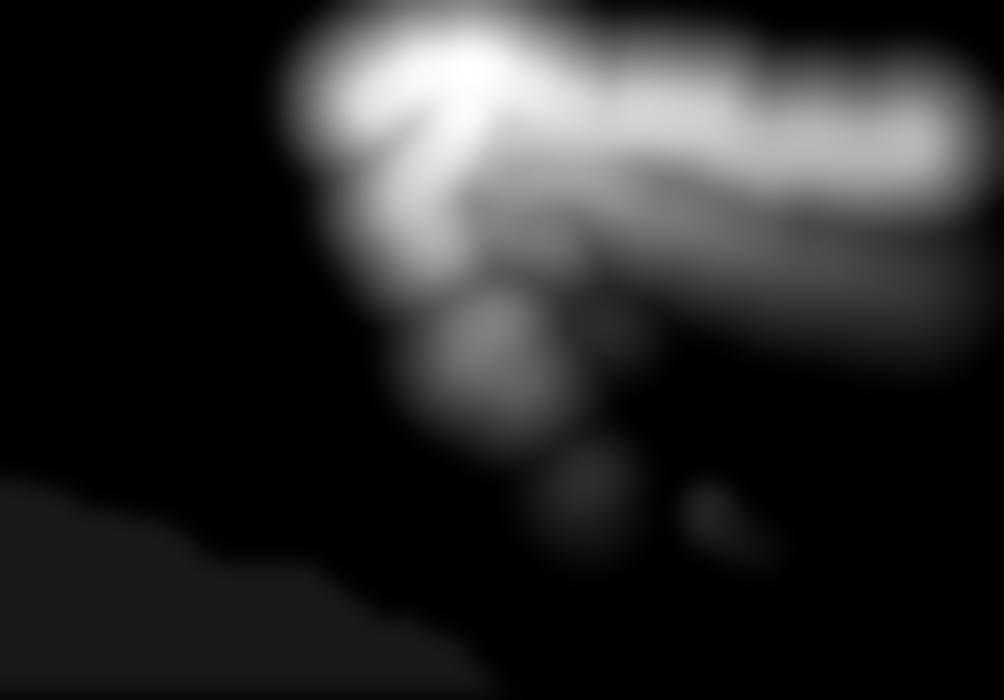
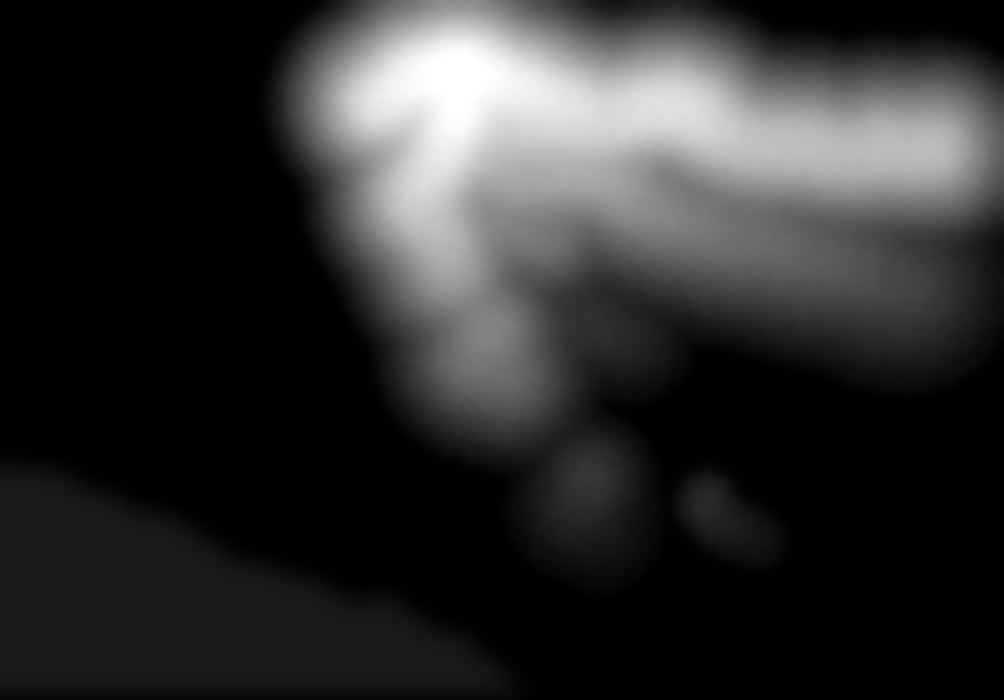
texture

Changed region(s): [[0.9263, 0.09, 1.0, 0.33], [0.6484, 0.0, 0.7102, 0.15], [0.4014, 0.36, 0.494, 0.48]]

diff --git a/sceneWebRender/terrain/texture.py b/sceneWebRender/terrain/texture.py
@@ -1,0 +1,53 @@
+from PIL import Image, ImageEnhance, ImageFilter, ImageOps
+
+def generateTextureForTerrain(terrainHeightMapPath, terrainTypePath, outputTexturePath):
+	hm = Image.open(terrainHeightMapPath)
+	tim = Image.open(terrainTypePath)
+	size = hm.size
+
+	hmContour = hm.filter(ImageFilter.CONTOUR)
+	hmContourData = hmContour.load()
+	timData = tim.load()
+	for x in range(0, size[0]):
+		for y in range(0, size[1]):
+			if hmContourData[x, y]<255:
+				hmContourData[x, y] = 0
+			if timData[x, y]!=200:
+				hmContourData[x, y] = 0
+
+	colorT = tim.convert("RGB")
+	colorTData = colorT.load()
+	for x in range(0, size[0]):
+		for y in range(0, size[1]):
+			if colorTData[x, y][0]==200:
+				colorTData[x, y] = (194,216,213)
+			if colorTData[x, y][0]==100:
+				colorTData[x, y] = (194,216,213)
+
+	colorT.save("/home/kakaiu/ThreeChinesePainting/sceneWebRender/static/terrain/tmp_color.png")
+
+	hmContour.save("/home/kakaiu/ThreeChinesePainting/sceneWebRender/static/terrain/tmp_contour.png")
+	hm = hmContour.filter(ImageFilter.GaussianBlur(radius=5))
+	hm = ImageOps.invert(hm)
+	hmData = hm.load()
+	for x in range(0, size[0]):
+		for y in range(0, size[1]):
+			hmData[x, y] = int(hmData[x, y])
+
+	hm = hm.convert("RGB")
+	hmData = hm.load()
+	hmContour.save("/home/kakaiu/ThreeChinesePainting/sceneWebRender/static/terrain/tmp_black.png")
+
+	colorRate = 0.9
+	for x in range(0, size[0]):
+		for y in range(0, size[1]):
+			if hmData[x, y][0]>40:
+				if colorTData[x, y][0]!=0:
+					hmData[x, y] = (int((1-colorRate)*hmData[x, y][0]+colorRate*colorTData[x, y][0]), 
+									int((1-colorRate)*hmData[x, y][1]+colorRate*colorTData[x, y][1]), 
+									int((1-colorRate)*hmData[x, y][2]+colorRate*colorTData[x, y][2]))
+
+
+	hm = hm.filter(ImageFilter.GaussianBlur(radius=5))		
+
+	hm.save(outputTexturePath)

diff --git a/sceneWebRender/main.py b/sceneWebRender/main.py
@@ -2,7 +2,7 @@
 from flask import Flask, render_template, jsonify, request
 import json
 import handleSketch
-from heightmap import creator, texture
+from terrain import creator, texture
 
 app = Flask(__name__)
 
@@ -33,9 +33,10 @@ def achieveSketch():
 	HM.exportTerrainMap("/home/kakaiu/ThreeChinesePainting/sceneWebRender/static/terrain/tmp_terrain.png")
 
 	HM.smoothSynthesize(10)
-	#HM.createNoiseForMountains(100, 30)
-	#HM.smoothNoise(3.5)
-	#HM.synthesizeNoise()
+	
+	HM.createNoiseForMountains(100, 30)
+	HM.smoothNoise(3.5)
+	HM.synthesizeNoise()
 
 	#HM.createTree(7, 1000, 1)
 	#HM.synthesizeTree()

diff --git a/sceneWebRender/terrain/creator.py b/sceneWebRender/terrain/creator.py
@@ -148,7 +148,7 @@ class heightMap:
 				if self.__planeMap[x][y]==0:
 					self.__synthesizedMap[x][y] = self.__synthesizedMap[x][y] + self.__noiseMap[x][y]
 				else:
-					self.__synthesizedMap[x][y] = self.__planeMap[x][y]
+					self.__synthesizedMap[x][y] = self.__synthesizedMap[x][y]
 
 	def synthesizeMountains(self):
 		for x in range(0, self.__sizeX):
